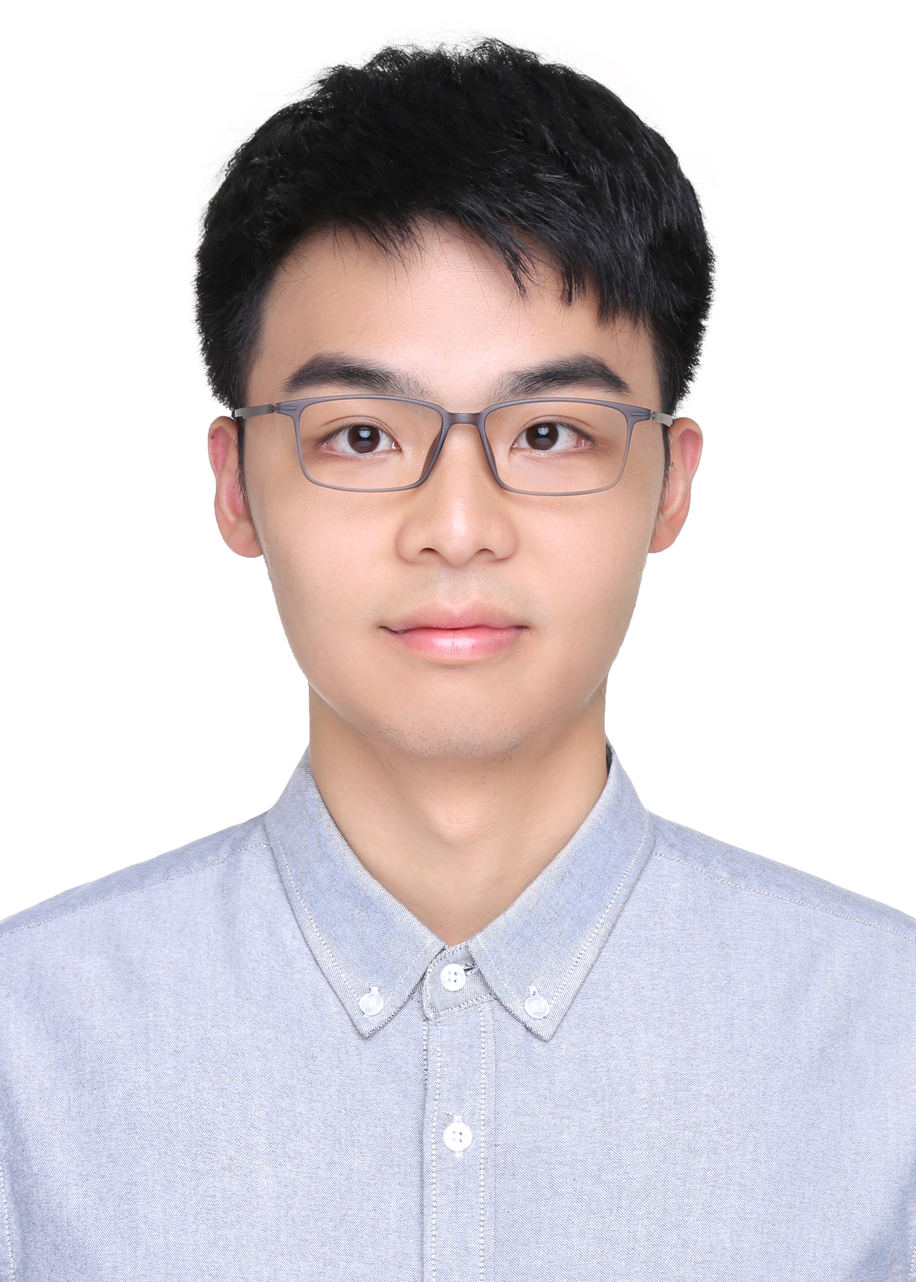
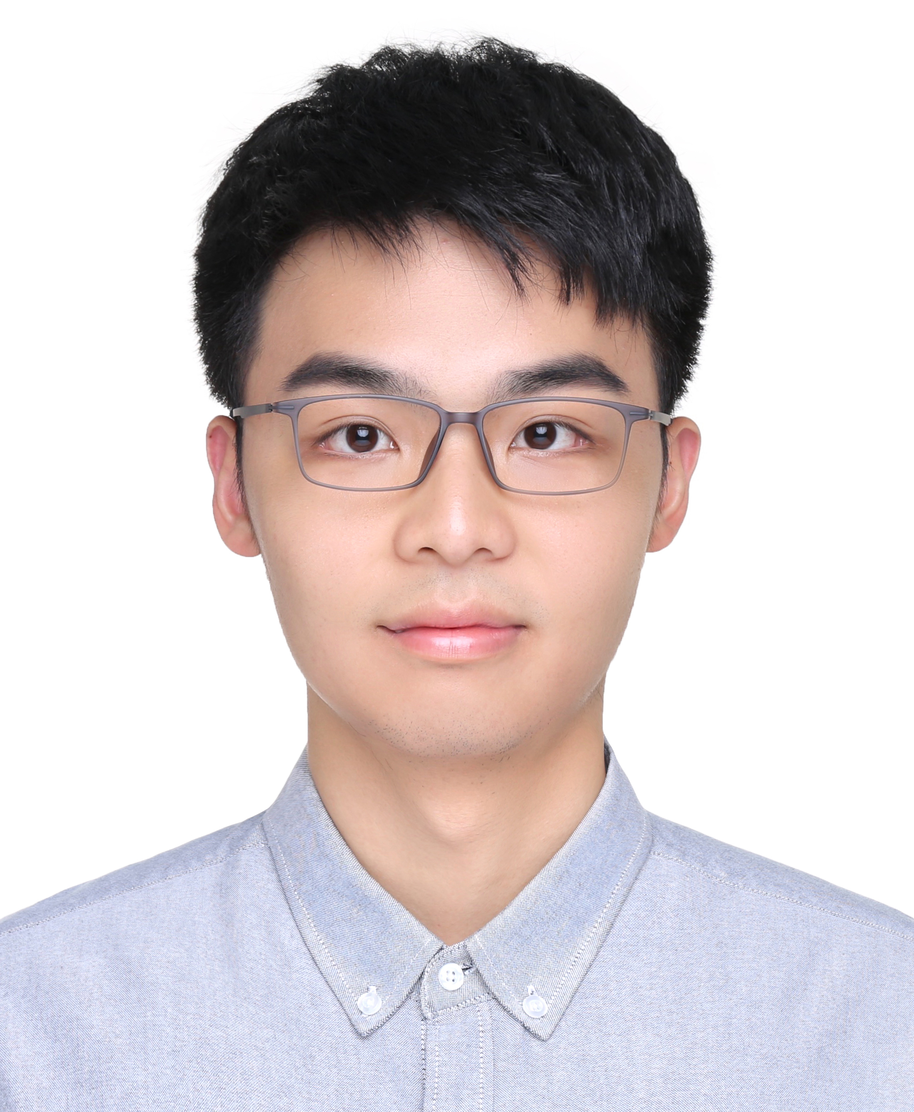
updated site

diff --git a/author/yang-jingyi/index.html b/author/yang-jingyi/index.html
@@ -308,8 +308,8 @@
   <meta property="og:site_name" content="ML for Data Management" />
   <meta property="og:url" content="https://MLxDB.github.io/author/yang-jingyi/" />
   <meta property="og:title" content="YANG Jingyi | ML for Data Management" />
-  <meta property="og:description" content="A highly-customizable Hugo research group theme powered by Wowchemy website builder." /><meta property="og:image" content="https://MLxDB.github.io/author/yang-jingyi/avatar_hu7c238555529fea571b3724741c6e1316_2974418_270x270_fill_q75_lanczos_center.JPG" />
-    <meta property="twitter:image" content="https://MLxDB.github.io/author/yang-jingyi/avatar_hu7c238555529fea571b3724741c6e1316_2974418_270x270_fill_q75_lanczos_center.JPG" /><meta property="og:locale" content="en-us" />
+  <meta property="og:description" content="A highly-customizable Hugo research group theme powered by Wowchemy website builder." /><meta property="og:image" content="https://MLxDB.github.io/author/yang-jingyi/avatar_hudf843ebf44c9ac81e5503ba47ef79289_2357999_270x270_fill_q75_lanczos_center.JPG" />
+    <meta property="twitter:image" content="https://MLxDB.github.io/author/yang-jingyi/avatar_hudf843ebf44c9ac81e5503ba47ef79289_2357999_270x270_fill_q75_lanczos_center.JPG" /><meta property="og:locale" content="en-us" />
   
     
   
@@ -696,7 +696,7 @@
       
       <img class="avatar avatar-circle"
            width="270" height="270"
-           src="/author/yang-jingyi/avatar_hu7c238555529fea571b3724741c6e1316_2974418_270x270_fill_q75_lanczos_center.JPG" alt="YANG Jingyi">
+           src="/author/yang-jingyi/avatar_hudf843ebf44c9ac81e5503ba47ef79289_2357999_270x270_fill_q75_lanczos_center.JPG" alt="YANG Jingyi">
       
 
       <div class="portrait-title">

diff --git a/people/index.html b/people/index.html
@@ -1358,7 +1358,7 @@
     
     
       
-      <a href="/author/yang-jingyi/"><img width="270" height="270" loading="lazy" class="avatar avatar-circle" src="/author/yang-jingyi/avatar_hu7c238555529fea571b3724741c6e1316_2974418_270x270_fill_q75_lanczos_center.JPG" alt="Avatar"></a>
+      <a href="/author/yang-jingyi/"><img width="270" height="270" loading="lazy" class="avatar avatar-circle" src="/author/yang-jingyi/avatar_hudf843ebf44c9ac81e5503ba47ef79289_2357999_270x270_fill_q75_lanczos_center.JPG" alt="Avatar"></a>
     
 
     <div class="portrait-title">
